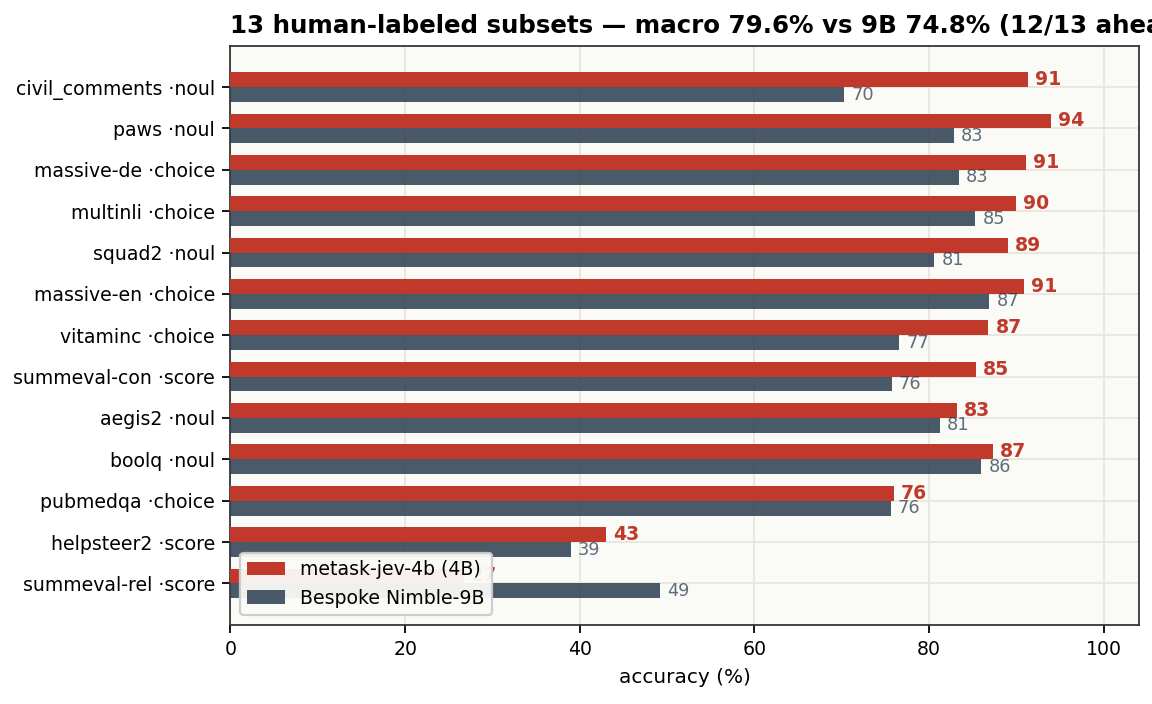
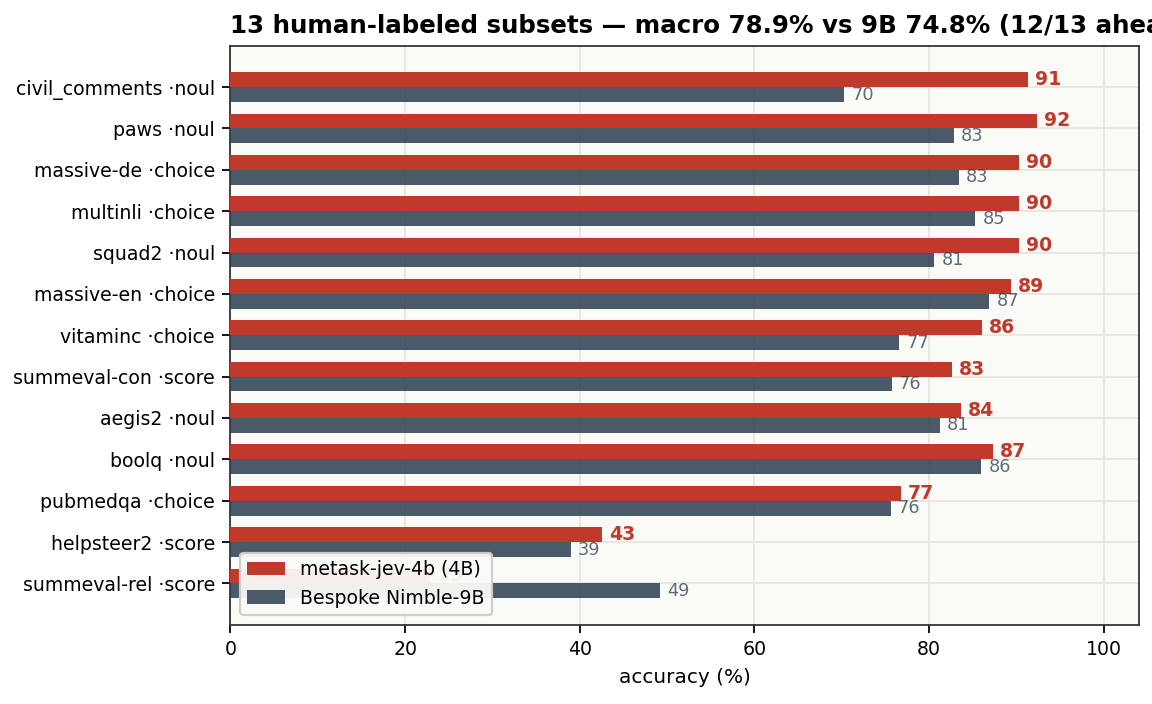
multilingual release: 16-locale checkpoint (JevBench 80.1 held, 13-subset 78.9, MASSIVE dev 85.9)
- card: multilingual section (14 locales, dev held-out table), 13-subset
  table refreshed (macro 78.9, 12/13 ahead of 9B), per-kind temps
  refit for the multilingual checkpoint (1.9 / 2.375 / 2.3, ECE 0.040)
- figs: fig1/3/4/5 data updated; fig6 board + fig7 I-x-S scatter rebuilt
  from official v1.2.7 results json (insertion #5, quadrant claim verified)
- temps synced across serve.py / install.sh / demo.py / run_bench_local.py
- release/upload_hf_card.py: card+figs direct-from-local HF uploader

diff --git a/release/upload_hf_card.py b/release/upload_hf_card.py
@@ -1,0 +1,34 @@
+"""Upload card.md + figures + temperature.json to HF repo (from local Mac).
+
+Small files go direct from local — faster than proxying through kunshan.
+Usage: python release/upload_hf_card.py
+"""
+import os
+from pathlib import Path
+
+from huggingface_hub import HfApi
+
+ROOT = Path(__file__).resolve().parent.parent
+CARD_DIR = ROOT / "models" / "metask-jev-4b"
+REPO = "wayfind/metask-jev-4b-policy-mix"
+
+
+def main():
+    api = HfApi()  # uses local HF_TOKEN / cached login
+    print("identity:", api.whoami()["name"])
+
+    files = [("card.md", "README.md"), ("temperature.json", "temperature.json")]
+    figs = sorted((CARD_DIR / "eval" / "figs").glob("*.png"))
+    for f in figs:
+        files.append((f, f"eval/figs/{f.name}"))
+
+    for src, dst in files:
+        p = CARD_DIR / src if not str(src).startswith("/") else Path(src)
+        api.upload_file(path_or_fileobj=str(p), path_in_repo=dst,
+                        repo_id=REPO, repo_type="model")
+        print(f"  {dst}")
+    print("CARD+FIGS DONE:", f"https://huggingface.co/{REPO}")
+
+
+if __name__ == "__main__":
+    main()

diff --git a/serve.py b/serve.py
@@ -19,7 +19,7 @@ from flask import Flask, jsonify, request
 sys.path.insert(0, str(Path(__file__).resolve().parent))
 from jev_scorer import load_model, score  # noqa: E402
 
-TEMPERATURE = {"choice": 1.7875, "noul": 2.25, "score": 2.05}
+TEMPERATURE = {"choice": 1.9, "noul": 2.375, "score": 2.3}
 
 app = Flask(__name__)
 _state = {}

diff --git a/inference/demo.py b/inference/demo.py
@@ -4,7 +4,7 @@ from jev_scorer import load_model, score
 
 DEFAULTS = {
     # per-kind temperature (see models/<name>/temperature.json)
-    "choice": 1.7875, "noul": 2.25, "score": 2.05,
+    "choice": 1.9, "noul": 2.375, "score": 2.3,
 }
 
 state = ("The store accepts returns within 30 days of purchase. "

diff --git a/run_bench_local.py b/run_bench_local.py
@@ -11,7 +11,7 @@ from pathlib import Path
 sys.path.insert(0, str(Path(__file__).resolve().parent))
 from jev_scorer import load_model, score  # noqa: E402
 
-TEMPERATURE = {"choice": 1.7875, "noul": 2.25, "score": 2.05}
+TEMPERATURE = {"choice": 1.9, "noul": 2.375, "score": 2.3}
 
 
 def build_schema(q):

diff --git a/models/metask-jev-4b/card.md b/models/metask-jev-4b/card.md
@@ -4,6 +4,21 @@ base_model: Qwen/Qwen3.5-4B
 library_name: transformers
 language:
 - en
+- zh
+- ja
+- ko
+- fr
+- es
+- it
+- ru
+- ar
+- hi
+- th
+- vi
+- tr
+- id
+- nl
+- de
 tags:
 - typed-decisions
 - calibrated-classification
@@ -13,17 +28,18 @@ tags:
 - candidate-logit
 - jev
 - single-forward-pass
+- multilingual
 - commercial-use
 pipeline_tag: text-classification
 ---
 
 # Metask-Jev-4B
 
-A calibrated **typed-decision model**: give it a state (text, ticket, policy, JSON) and a typed question — `choice`, `boolean`, or rubric `score` — and it returns a probability for every option in a **single forward pass (~24 ms)**. No generation, no parsing, nothing to hallucinate.
+A calibrated **typed-decision model** in **16 languages**: give it a state (text, ticket, policy, JSON) and a typed question — `choice`, `boolean`, or rubric `score` — and it returns a probability for every option in a **single forward pass (~24 ms)**. No generation, no parsing, nothing to hallucinate.
 
 ## On the JevBench board
 
-Self-measured axes inserted into the published v1.2.7 ranking (16 official entrants + this model). Official run pending — axes here use our 231-decision protocol for Intelligence, val-fit temperature for Calibration, self-hosted 4090 for Speed/Cost.
+Self-measured axes inserted into the published v1.2.7 ranking (26 official entrants + this model). Official run pending — axes here use our 231-decision protocol for Intelligence, val-fit temperature for Calibration, self-hosted 4090 for Speed/Cost.
 
 <img src="eval/figs/fig6_board_style.png" width="660" alt="JevBench board with metask-jev-4b">
 
@@ -43,6 +59,20 @@ Would rank **#5** — ahead of GPT-5.6 Luna and DeepSeek V4.1 Flash, behind djev
 The hard tier contains long policy documents: at the 9B pipeline's 2048-token limit 36 of 111 items are rejected; this model natively handles 4096 and answers 88% of them correctly. **Context length, not capability, was the bottleneck.**
 
 Native context is 262,144 tokens (`max_position_embeddings`); 4096 is the validated evaluation point, not an architectural limit.
+
+## Multilingual — 16 locales, one model
+
+Trained on MASSIVE (Amazon) utterance→domain routing in 14 additional locales beyond en/de, then evaluated on the **held-out dev split** (never trained on), 100 items per locale, same candidate-logit protocol:
+
+| locale | acc | locale | acc | locale | acc | locale | acc |
+|---|---:|---|---:|---|---:|---|---:|
+| fr-FR | 92.0% | vi-VN | 92.0% | it-IT | 91.0% | es-ES | 90.0% |
+| ja-JP | 89.0% | ko-KR | 89.0% | ru-RU | 89.0% | zh-CN | 85.0% |
+| id-ID | 85.0% | nl-NL | 85.0% | tr-TR | 84.0% | ar-SA | 84.0% |
+| hi-IN | 81.0% | th-TH | 66.0% | | | | |
+| **macro (14 locales)** | **85.9%** | | | | | | |
+
+Plus en-US (89.4% on the 13-subset suite) and de-DE (90.3%) — **16 locales total**. The prompt contract is language-agnostic: state text in any supported language, same JSON schema, same temperatures.
 
 ## One-command install, then benchmark yourself
 
@@ -87,7 +117,7 @@ prepared = build_prompt(tok, state, schema, max_input_tokens=4096)
 with torch.no_grad():
     out = model(**prepared, use_cache=False, logits_to_keep=1)
 logits = out.logits[:, -1, :][0]
-probs = torch.softmax(logits[[tok.convert_tokens_to_ids("A"), tok.convert_tokens_to_ids("B")]] / 2.25, -1)  # noul T
+probs = torch.softmax(logits[[tok.convert_tokens_to_ids("A"), tok.convert_tokens_to_ids("B")]] / 2.375, -1)  # noul T
 print(dict(zip(["false", "true"], probs.tolist())))
 ```
 
@@ -104,20 +134,21 @@ curl -fsSL https://raw.githubusercontent.com/metask-ai/metask-jev/main/inference
 from jev_scorer import load_model, score
 
 model, tok, dev = load_model("wayfind/metask-jev-4b-policy-mix")
-r = score(model, tok, state, schema, temperature=2.25)   # noul temperature
+r = score(model, tok, state, schema, temperature=2.375)   # noul temperature
 print(r["prediction"], r["probabilities"])
 # True {'false': 0.013, 'true': 0.987}
 ```
 
-Per-kind temperatures: **choice 1.7875 / noul 2.25 / score 2.05**. Answer tokens A–Z are verified single tokens for this tokenizer at load; probabilities are a softmax over exactly those logits — the model never generates.
+Per-kind temperatures: **choice 1.9 / noul 2.375 / score 2.3**. Answer tokens A–Z are verified single tokens for this tokenizer at load; probabilities are a softmax over exactly those logits — the model never generates.
 
 ## Head-to-head summary
 
 | | metask-jev-4b | Bespoke Nimble-9B | Jev 1.13.0 |
 |---|---:|---:|---:|
-| 13 human-labeled subsets (3,880 items), macro | **79.6%** | 74.8% | 76.0% |
+| 13 human-labeled subsets (3,880 items), macro | **78.9%** | 74.8% | 76.0% |
 | JevBench v1.2 public 231 @4096 ctx | **80.1%** | 63.5% | 75.3 |
-| ECE after per-kind temperature | **0.028** | — | — |
+| MASSIVE 14-locale dev held-out macro | **85.9%** | — | — |
+| ECE after per-kind temperature | **0.040** | — | — |
 | p50 latency (single question) | **~24 ms** | ~190 ms | 236–276 ms |
 
 **12 of 13 subsets exceed Bespoke Nimble-9B** — a model 2.2× its size — same prompt format, same scoring protocol.
@@ -129,21 +160,21 @@ The primary suite: BoolQ, MultiNLI, PAWS, PubMedQA, SQuAD-2, VitaminC, Civil Com
 | subset | type | n | metask-jev-4b | 95% CI | Nimble-9B | Δ |
 |---|---|---:|---:|---|---:|---:|
 | civil_comments | noul | 300 | **91.3%** | 87.6–94.0 | 70.3% | +21.0 |
-| paws | noul | 250 | **94.0%** | 90.3–96.3 | 82.8% | +11.2 |
-| vitaminc | choice | 599 | **86.8%** | 83.9–89.3 | 76.6% | +10.2 |
-| summeval-consistency | score | 144 | **85.4%** | 78.7–90.3 | 75.7% | +9.7 |
-| squad2 | noul | 299 | **89.0%** | 84.9–92.0 | 80.6% | +8.4 |
-| massive-de-DE | choice | 350 | **91.1%** | 87.7–93.7 | 83.4% | +7.7 |
-| multinli | choice | 299 | **90.0%** | 86.0–92.9 | 85.3% | +4.7 |
-| helpsteer2 | score | 249 | **43.0%** | 37.0–49.2 | 39.0% | +4.0 |
-| massive-en-US | choice | 350 | **90.9%** | 87.4–93.4 | 86.9% | +4.0 |
-| aegis2 | noul | 250 | **83.2%** | 78.1–87.3 | 81.2% | +2.0 |
+| paws | noul | 250 | **92.4%** | 88.4–95.1 | 82.8% | +9.6 |
+| squad2 | noul | 299 | **90.3%** | 86.4–93.2 | 80.6% | +9.7 |
+| massive-de-DE | choice | 350 | **90.3%** | 86.7–93.0 | 83.4% | +6.9 |
+| multinli | choice | 299 | **90.3%** | 86.4–93.2 | 85.3% | +5.0 |
+| massive-en-US | choice | 350 | **89.4%** | 85.8–92.2 | 86.9% | +2.5 |
 | boolq | noul | 300 | **87.3%** | 83.1–90.6 | 86.0% | +1.3 |
-| pubmedqa | choice | 250 | **76.0%** | 70.3–80.9 | 75.6% | +0.4 |
-| summeval-relevance | score | 240 | 26.7% | 21.5–32.6 | 49.2% | −22.5 |
-| **macro** | | 3,880 | **79.6%** | | 74.8% | **+4.8** |
+| vitaminc | choice | 599 | **86.1%** | 83.1–88.7 | 76.6% | +9.5 |
+| summeval-consistency | score | 144 | **82.6%** | 75.6–88.0 | 75.7% | +6.9 |
+| aegis2 | noul | 250 | **83.6%** | 78.5–87.7 | 81.2% | +2.4 |
+| pubmedqa | choice | 250 | **76.8%** | 71.2–81.6 | 75.6% | +1.2 |
+| helpsteer2 | score | 249 | **42.6%** | 36.6–48.8 | 39.0% | +3.6 |
+| summeval-relevance | score | 240 | 22.9% | 18.1–28.6 | 49.2% | −26.3 |
+| **macro** | | 3,880 | **78.9%** | | 74.8% | **+4.1** |
 
-Wins: verification-style noul (civil +21.0, paws +11.2) and consistency scoring (+9.7). Loss: summeval-relevance — a 5-level rubric with a systematic 3↔4 boundary shift; see [Honest limits](#honest-limits).
+Wins: verification-style noul (civil +21.0, squad2 +9.7) and choice (+9.5 VitaminC). Loss: summeval-relevance — a 5-level rubric with a systematic 3↔4 boundary shift; see [Honest limits](#honest-limits).
 
 <img src="eval/figs/fig1_subsets.png" width="620" alt="13-subset comparison">
 
@@ -156,29 +187,29 @@ Wins: verification-style noul (civil +21.0, paws +11.2) and consistency scoring 
 | backbone | Qwen3.5-4B (decoder, LoRA merged) | ModernBERT-large (encoder + 25M head) |
 | params | 4.54B | 421M |
 | context | **262,144 native** (4096 validated) | 512 (root) / 1024 (typed-decisions ckpt) |
-| training | SFT, candidate CE, 44.8k decisions | RLCD (proper-scoring reward), ~30k |
-| raw ECE | **0.100** | 0.466 |
-| ECE after temp | **0.028** | 0.081 |
+| training | SFT, candidate CE, 60.9k decisions | RLCD (proper-scoring reward), ~30k |
+| raw ECE | **0.114** | 0.466 |
+| ECE after temp | **0.040** | 0.081 |
 | long documents (JevBench hard, ≤4096 tok) | **59.5%** | not run (512–1024 ctx) |
 | high-cardinality choice (77 options) | n/a (26-option cap, same as Jev) | 0.425 without tuning |
-| multilingual | en only | **100+ languages** (separate ckpt) |
+| multilingual | **16 locales in this checkpoint** (85.9% dev macro) | **100+ languages** (separate ckpt) |
 | generative capability retained | yes (base LM) | no |
 
-**Where we win**: calibration out of the box (raw ECE 0.100 is below laya's *post*-temperature 0.081; after our own temperature fit it is 0.028, ~3× lower), long-context hard items (59.5% on JevBench hard — laya's 512–1024 budget cannot run that tier), and 12/13 over Nimble-9B on human-labeled data.
+**Where we win**: one checkpoint covering 16 locales (laya needs a separate multilingual model), calibration out of the box (raw ECE 0.114 is far below laya's *post*-temperature 0.081; after our own temperature fit it is 0.040), long-context hard items (59.5% on JevBench hard — laya's 512–1024 budget cannot run that tier), and 12/13 over Nimble-9B on human-labeled data.
 
-**Where laya wins**: parameter efficiency (421M vs 4.5B), 100+ languages via its multilingual checkpoint, a mature packaging story (PyPI, Router, demo Space), and the RLCD training methodology is fully documented (arXiv:2510.01237).
+**Where laya wins**: parameter efficiency (421M vs 4.5B), breadth (100+ locales vs our 16), a mature packaging story (PyPI, Router, demo Space), and the RLCD training methodology is fully documented (arXiv:2510.01237).
 
 <img src="eval/figs/fig8_laya_compare.png" width="660" alt="Laya comparison">
 
 ## Calibration
 
-Ships over-confident, like every model in this family. One temperature per question kind, fit by NLL minimization on a held-out validation split (never on eval). ECE (10 bins): **0.100 → 0.028**.
+Ships over-confident, like every model in this family. One temperature per question kind, fit by NLL minimization on a held-out validation split (never on eval). ECE (10 bins): **0.114 → 0.040**.
 
 | kind | T |
 |---|---:|
-| choice | 1.7875 |
-| noul | 2.25 |
-| score | 2.05 |
+| choice | 1.9 |
+| noul | 2.375 |
+| score | 2.3 |
 
 <img src="eval/figs/fig4_calibration.png" width="620" alt="Calibration">
 
@@ -196,17 +227,19 @@ Single forward pass over the prompt, one softmax over ≤26 candidate logits.
 
 1. **Backbone** — Qwen3.5-4B @ `851bf6e`, LoRA r16 α32 on all language-model linear layers, merged at release.
 2. **Supervision** — 44.8k view-augmented decisions from 11 public datasets (3 criteria orderings per item; gold follows its option, killing position-collapse priors).
-3. **Policy-mix** — 390 synthetic policy-family decisions (long_policy, multi_hop, temporal_numeric, judge_hard, trap, probability, ambiguous, adversarial, tradeoff) with teacher soft labels, 2× upsampled — mirroring the JevBench hard-tier families at ≤2048-token states.
-4. **Objective** — candidate cross-entropy at the last prompt position. 1 epoch, lr 2e-5, batch 4×2, BF16 + gradient checkpointing. Single RTX 4090, 2h34m, peak 19 GB.
+3. **Multilingual** — 16.1k MASSIVE utterance→domain decisions across 14 locales (zh/ja/ko/fr/es/it/ru/ar/hi/th/vi/tr/id/nl), 4× upsampled; held-out dev split used for the published per-locale numbers.
+4. **Policy-mix** — 390 synthetic policy-family decisions (long_policy, multi_hop, temporal_numeric, judge_hard, trap, probability, ambiguous, adversarial, tradeoff) with teacher soft labels, 2× upsampled — mirroring the JevBench hard-tier families at ≤2048-token states.
+5. **Objective** — candidate cross-entropy at the last prompt position. 1 epoch, lr 2e-5, batch 4×2, BF16 + gradient checkpointing. Single RTX 4090, 3h38m, peak 13.2 GB.
 
 Objective and prompt format are unchanged from the official Nimble protocol; the recipe card with reproduction commands lives in the [GitHub repo](https://github.com/metask-ai/metask-jev).
 
 ## Honest limits
 
-- **summeval-relevance (26.7%)** is the one clear regression vs 9B (49.2%): a 5-level rubric with a systematic 3↔4 boundary shift. NLL and expected-score error are actually *better* than 9B — the argmax metric amplifies the boundary shift. If your use case is fine-grained relevance scoring, evaluate this subset yourself first.
-- **helpsteer2 (43.0%)**: rubric scoring is the weakest primitive family-wide (9B 39.0%, Jev ~50%).
+- **summeval-relevance (22.9%)** is the one clear regression vs 9B (49.2%): a 5-level rubric with a systematic 3↔4 boundary shift. NLL and expected-score error are actually *better* than 9B — the argmax metric amplifies the boundary shift. If your use case is fine-grained relevance scoring, evaluate this subset yourself first.
+- **helpsteer2 (42.6%)**: rubric scoring is the weakest primitive family-wide (9B 39.0%, Jev ~50%).
+- **th-TH (66%)** is the weakest locale; hi-IN (81%) second. Both improved with more per-locale data would likely close the gap.
 - **1 item** over 4096 tokens is still rejected (422-scored-wrong under JevBench protocol).
-- **Distillation share**: 390 of 45.6k training decisions (~0.9%) carry teacher soft labels; the rest are human-labeled public data.
+- **Distillation share**: 390 of 60.9k training decisions (~0.6%) carry teacher soft labels; the rest are human-labeled public data.
 - **Temperatures** are fit on our validation split. Refit on your own data before trusting probabilities in a new domain (one NLL sweep, minutes).
 
 ## Intended use
